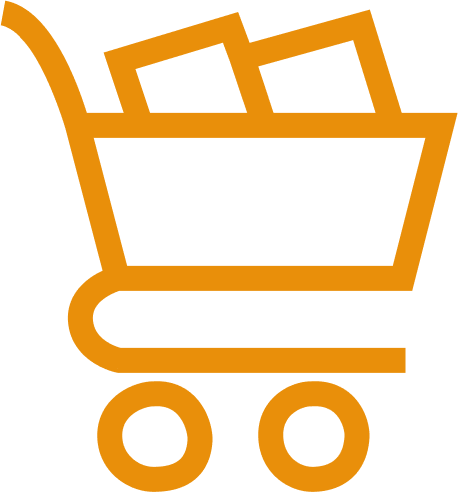
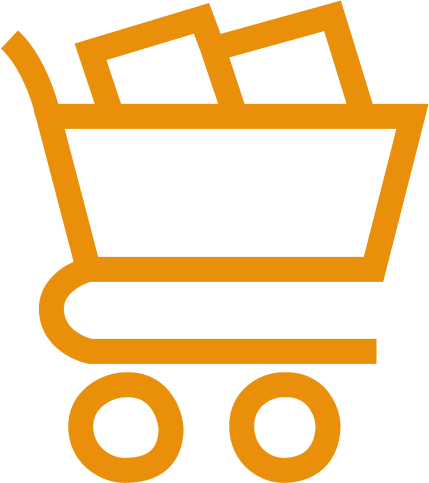
cambios en la card, botones register y login

Changed region(s): [[0.0, 0.0, 1.0, 1.0], [0.7273, 0.8385, 0.8182, 0.9938]]

diff --git a/client/src/components/Cards/Card.jsx b/client/src/components/Cards/Card.jsx
@@ -2,21 +2,20 @@ import React from 'react'
 import { useDispatch } from 'react-redux'
 import { Link } from 'react-router-dom'
 import styles from './Card.module.css'
-import car from '../../assets/carrito2.png'
+import car from '../../assets/carrito3.png'
 import { shopingCar } from '../../store/actions/index.js'
 
 const Card = (props) => {
-
   const dispatch = useDispatch()
 
   function addToCar() {
-    console.log("In SHOPPING CAR");
-    dispatch(shopingCar("ADD", props.allProduct));
+    console.log('In SHOPPING CAR')
+    dispatch(shopingCar('ADD', props.allProduct))
   }
 
   return (
     <div className={styles.block__card}>
-      <Link to={{ pathname: `/detail/${props.id}`}}>
+      <Link to={{ pathname: `/detail/${props.id}` }}>
         <img
           className={styles.block__card_img}
           src={props.image}
@@ -24,14 +23,23 @@ const Card = (props) => {
         />
       </Link>
       <div className={styles.block__details}>
-        <div className={styles.block__name_precio}>
-          <h3 className={styles.block__card_name}>{props.title}</h3>
-          <div className={styles.block__card_precio}>${props.price}</div>
+        <div>
+          <a className={styles.block__card_name}>{props.title}</a>
         </div>
-        <div className={styles.block__description}>
-            <button className={styles.icon_car} type='button' onClick={addToCar} style={{cursor: "pointer"}} >
-              <img src="https://w7.pngwing.com/pngs/380/261/png-transparent-computer-icons-shopping-cart-add-to-cart-button-text-logo-monochrome-thumbnail.png" alt="add shopping" width="30px" height="30px" />{' '}
+        <div className={styles.price_and_car}>
+          <div className={styles.block__name_precio}>
+            <a className={styles.block__card_precio}>${props.price}</a>
+          </div>
+          <div>
+            <button
+              className={styles.icon_car_container}
+              type="button"
+              onClick={addToCar}
+              style={{ cursor: 'pointer' }} >
+
+              <img className={styles.icon_car} src={car} />
             </button>
+          </div>
         </div>
       </div>
     </div>

diff --git a/client/src/components/Cards/Card.module.css b/client/src/components/Cards/Card.module.css
@@ -1,61 +1,74 @@
-.icon_car {
-   border-radius:var(--border-radius-general-buttons) ;
-  width: 2.5rem;
-  height: 2.5rem;
-  padding: 0.25rem;
+@import '../../index.css';
 
-  margin-top: 0.9rem;
-  margin-left: 6rem;
-  margin-right: 0rem;
-}
 .block__card {
   background-color: rgb(255, 255, 255);
-  width: 20rem;
-  height: 23rem;
+  max-width: 16rem;
+  max-height: 17rem;
   border: 1px solid var(--gray-border);
   border-radius: 10px;
   display: flex;
   flex-direction: column;
   justify-content: center;
   align-items: center;
-  margin: 1rem 1rem 1rem 1rem;
+  margin: 0.5rem 0.5rem 1rem 0.5rem;
   font-size: 1rem;
 }
-.block__card_name {
-  margin: 0px 0px 0px 20px;
-  text-decoration-line: none;
-}
+
 .block__card_img {
-  width: 200px;
-  height: 230px;
+  width: 160px;
+  height: 160px;
   display: flex;
   flex-direction: column;
   justify-content: center;
   margin: 1rem;
 }
+.block__card_name{
+  display: flex;
+  justify-content:start;
+  font-weight: bold;
+  padding : 0rem 0rem 0.2rem 1rem;
+  
+}
 .block__card_precio {
-  margin: 0.3rem 0rem 0px 1rem;
-  align-items: center;
-  padding-top: 4px;
   font-size: 1.5rem;
   color: var(--font-one);
 }
 
-.block__card_icon {
-  width: 60%;
-  height: 30px;
-  margin-left: 1rem;
-}
-
-.block__name_precio {
-  display: flex;
-  flex-direction: column;
-  margin: 1rem 0rem 0rem 1rem;
-}
 .block__details {
   width: 100%;
-  height: 100%;
+  height: 100px;
   background-color: var(--gray-one);
   display: flex;
+  flex-direction: column;
+  justify-content: center;
+}
+
+.icon_car_container {
+  display: flex;
   flex-direction: row;
+  background-color: transparent;
+  border: transparent;
+  position: absolute;  
+}
+ 
+.icon_car {
+  width: 2rem;
+  height: 2rem;
+  margin-bottom: 2rem;
+  padding-left: 3rem;
+}
+.icon_car:hover {
+  width: 1.9rem;
+  height: 1.9rem;
+  margin-bottom: 2rem;
+  padding-left: 3rem;
+}
+
+
+.price_and_car {
+  margin-left: 2rem;
+  display: flex;
+  flex-direction: row;
+  align-items: flex-start;
+
 }

diff --git a/client/src/components/Header/jwt/LinkJwt.jsx b/client/src/components/Header/jwt/LinkJwt.jsx
@@ -31,16 +31,18 @@ const LinkJwt = () => {
             <div>
               <Link to="/register">
               <button className={styles.header_btns}>
-              <img className={styles.logo_register} src={register} /></button>              
+              <img className={styles.logo_register}  style={{ cursor: 'pointer' }} src={register} /></button>              
             </Link>
             </div>
-            <div>Register </div>
+            <div> <Link  className={styles.labels} style={{ textDecoration: "none" }} to="/register">Register</Link> </div> 
              <div><Link to="/login">
               <button className={styles.header_btns}>
-              <img className={styles.logo_profile} src={login} /> </button>
+              <img className={styles.logo_profile} style={{ cursor: 'pointer' }}src={login} /> </button>
             </Link>
             </div>
-            <div>Login</div>
+            <div >
+              <Link className={styles.labels} style={{ textDecoration: "none" }}  to="/login" >Login</Link>
+            </div>
 
             
           </div>

diff --git a/client/src/components/SearchBar/SearchBar.module.css b/client/src/components/SearchBar/SearchBar.module.css
@@ -15,7 +15,7 @@
 }
  
 .contenedor_search_button {
-  filter: opacity(55%);
+  filter: opacity(45%);
   margin-left: -2rem;
   position: absolute;
   background-color: transparent;
@@ -24,6 +24,7 @@
 }
  
 .icon_search {
+  margin-top: 2px;
   width: 1rem;
   height: 1rem;
 }

diff --git a/client/src/components/Header/jwt/LinkJwt.module.css b/client/src/components/Header/jwt/LinkJwt.module.css
@@ -44,3 +44,6 @@ flex-direction: row;
 align-items: center;
 color: #ffff;
 }
+.labels{
+  color: #ffff;
+}
